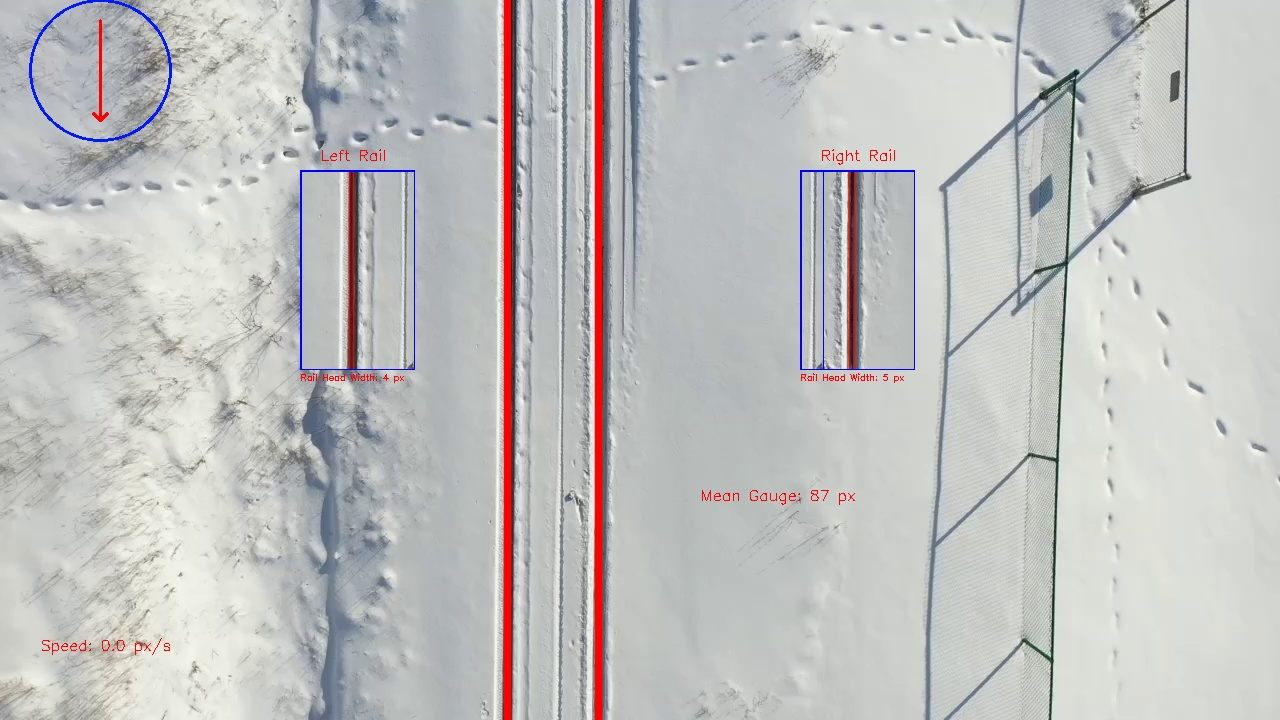
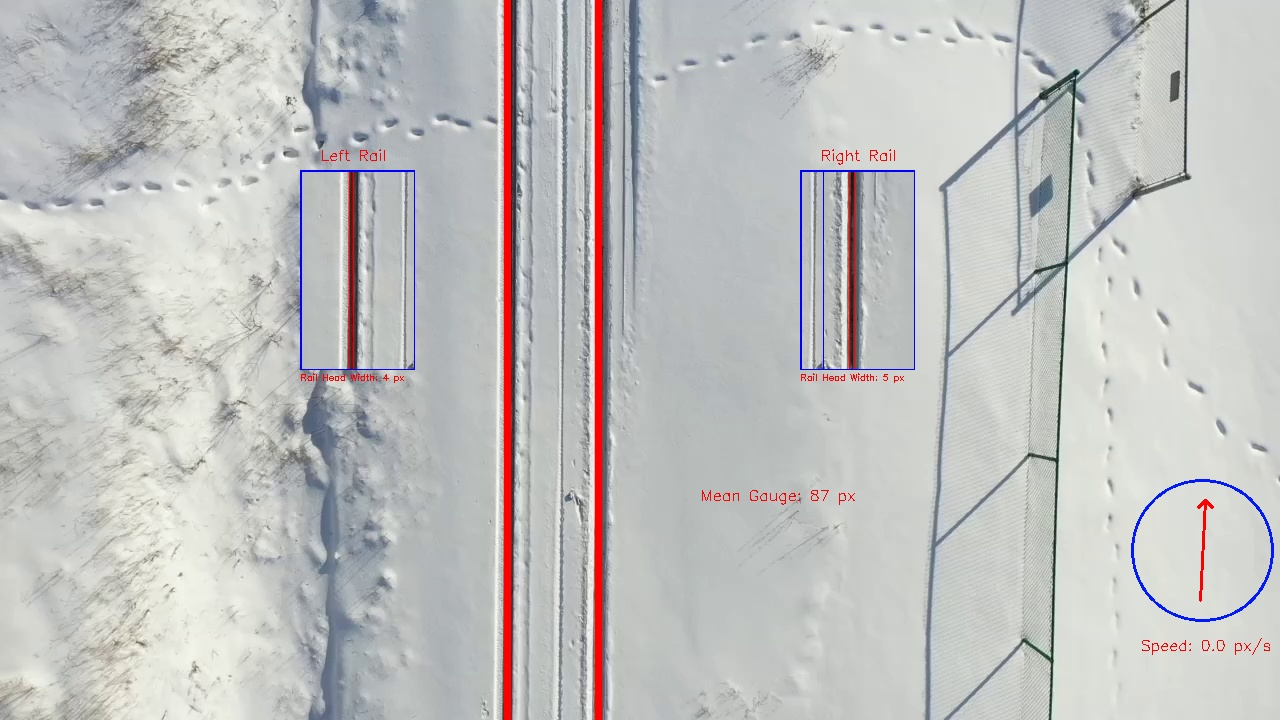
update

diff --git a/FYDP_Detect_Rails.py b/FYDP_Detect_Rails.py
@@ -320,7 +320,7 @@ while True:
     opticalflowframe1 = False
     opticalflowframe2 = 0
     
-    while x < 5:
+    while x < 3:
         print(x)
         img = cv2.imread('Images for MDR/Frames/frame ' + str(x) + '.jpg')
         
@@ -336,8 +336,8 @@ while True:
         speed = math.sqrt(velocity[0]*velocity[0] + velocity[1]*velocity[1])*100
         
         #add optical flow vector
-        startpoint = (100,20)
-        endpoint = (100  , 120)
+        startpoint = (1200  ,   600)
+        endpoint = (1205+velocity[1]  , 500)
         color1 = (0,0,255)
         color2 = (255,25,0)
         center =(round((startpoint[0]+endpoint[0])/2) , round((startpoint[1]+endpoint[1])/2))
